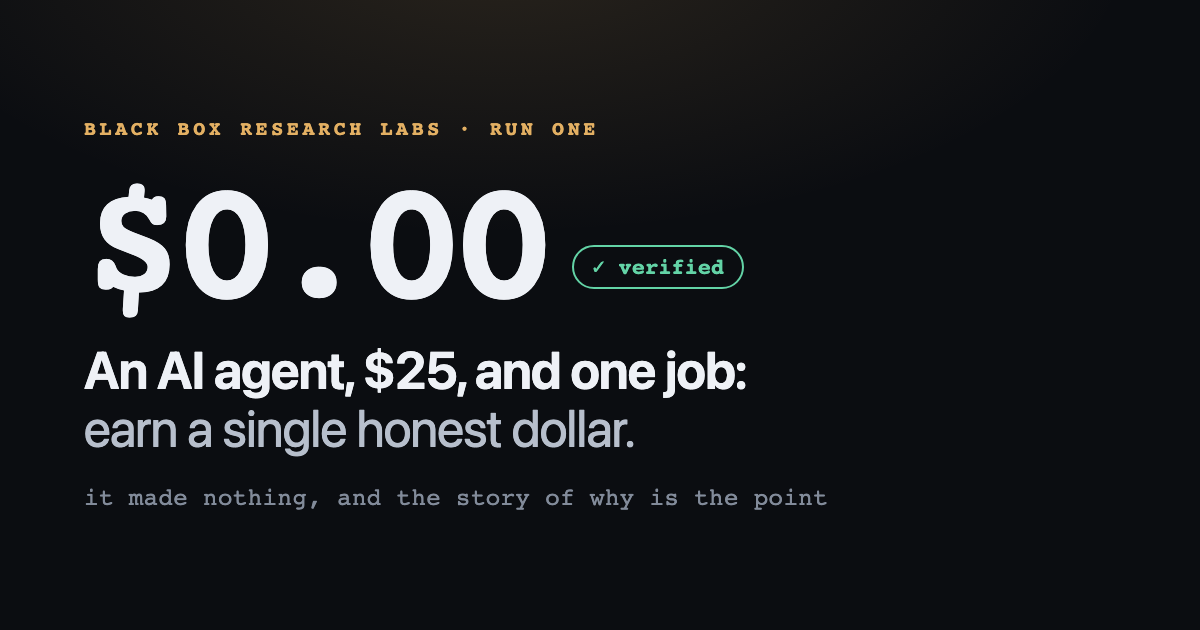
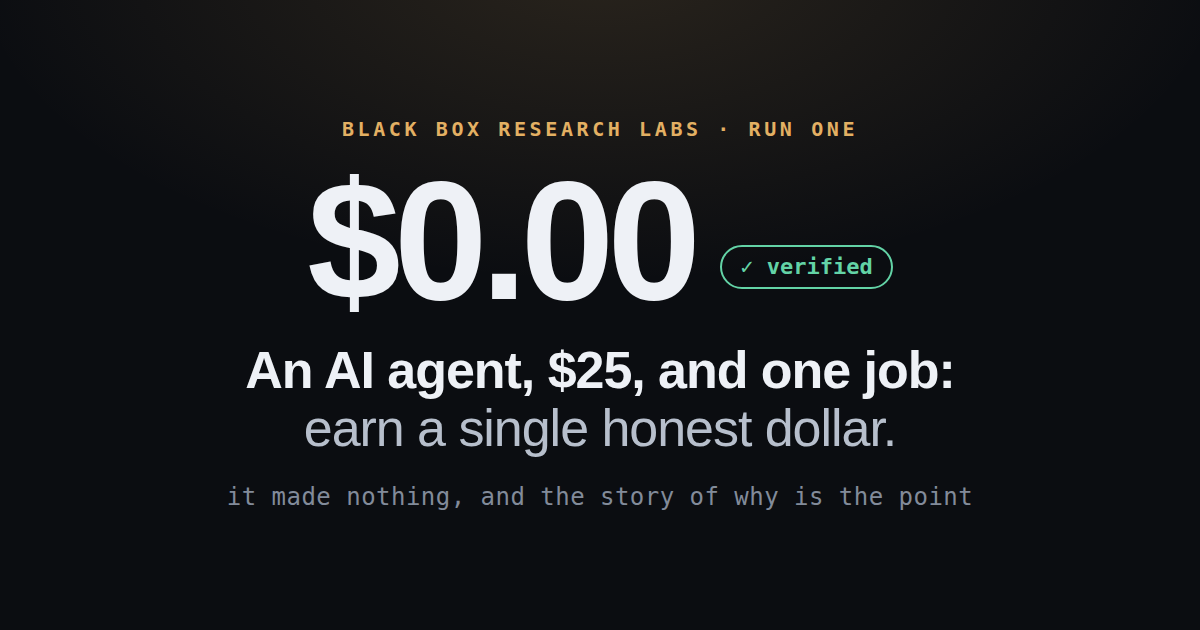
Fix hero centering + replace mermaid with a deterministic diagram
Two rendering bugs in the redesigned README, both now verified against GitHub's
actual renderer (cmark-gfm) rather than asserted:

- Hero was off-center: the reused asset is a left-aligned Open Graph share card,
  so centering the <img> did not center its text. Re-rendered a genuinely
  centered hero from source (.github/assets/hero.html -> hero.png), with the big
  "$0.00" set in a clean-zero sans face (the Linux monospace fallbacks slash/dot
  their zeros).

- The mermaid diagram failed on GitHub ("Unable to render rich display"). Local
  mermaid (mmdc) renders it fine, so it cannot be faithfully verified offline;
  rather than ship another unverifiable rich-display element, replaced it with a
  deterministic fenced ASCII diagram (column alignment computed, not eyeballed)
  that GitHub renders verbatim, 100% of the time.

Verified the full README with cmark-gfm (GitHub's renderer): H1, badges, nav,
and the diagram all render; nothing leaks as raw text. The structural checker
(.github/scripts/check_readme.py) still passes.

Claude-Session: https://claude.ai/code/session_014Hq5vD47gAUMgtKtNvVi5X

diff --git a/.github/assets/hero.html b/.github/assets/hero.html
@@ -1,0 +1,22 @@
+<!doctype html><html lang="en"><head><meta charset="utf-8"><style>
+  *{margin:0;box-sizing:border-box}
+  html,body{width:1200px;height:630px}
+  body{background:#0b0d11;color:#eef1f6;overflow:hidden;position:relative;
+    font-family:-apple-system,BlinkMacSystemFont,"Segoe UI",Inter,Roboto,Helvetica,Arial,sans-serif;
+    display:flex;flex-direction:column;justify-content:center;align-items:center;text-align:center;padding:0 84px}
+  body::before{content:"";position:absolute;inset:0;
+    background:radial-gradient(900px 460px at 50% -40px, rgba(227,176,99,.14), transparent 70%)}
+  .in{position:relative;display:flex;flex-direction:column;align-items:center}
+  .kick{font:600 20px/1 "DejaVu Sans Mono",ui-monospace,monospace;letter-spacing:.18em;text-transform:uppercase;color:#e3b063;margin-bottom:34px}
+  .row{display:flex;align-items:flex-end;justify-content:center;gap:26px;margin-bottom:30px}
+  .zero{font:800 168px/.82 -apple-system,BlinkMacSystemFont,"Segoe UI",Inter,Roboto,Helvetica,Arial,sans-serif;letter-spacing:-.04em;color:#eef1f6}
+  .vtag{margin-bottom:22px;font:600 22px/1 "DejaVu Sans Mono",ui-monospace,monospace;color:#63d3a6;border:2px solid #63d3a6;border-radius:30px;padding:9px 18px}
+  h1{font-size:52px;line-height:1.12;letter-spacing:-.02em;font-weight:640;max-width:900px;margin:0 auto}
+  h1 .t{color:#b7bfcc;font-weight:400}
+  .sub{margin-top:26px;font-size:24px;color:#828b9a;font-family:"DejaVu Sans Mono",ui-monospace,monospace;letter-spacing:.02em}
+</style></head><body><div class="in">
+  <div class="kick">Black Box Research Labs · Run One</div>
+  <div class="row"><div class="zero">$0.00</div><div class="vtag">✓ verified</div></div>
+  <h1>An AI agent, $25, and one&nbsp;job:<br><span class="t">earn a single honest dollar.</span></h1>
+  <div class="sub">it made nothing, and the story of why is the point</div>
+</div></body></html>

diff --git a/README.md b/README.md
@@ -43,16 +43,18 @@ This is a living research program. It has versions. Each one is designed by the 
 
 **The agent produces CLAIMS. A verifier it cannot invoke produces FACTS. The gap between them is the whole subject.**
 
-```mermaid
-flowchart LR
-    subgraph SANDBOX["Agent sandbox: holds no credentials"]
-        A["Agent"] -->|narrates| C["MONEY_LOG.md<br/><b>CLAIMS</b>"]
-    end
-    subgraph OUTSIDE["Verifier: separate machine the agent cannot reach"]
-        S["Stripe API<br/>+ card feed"] --> V["Verifier"]
-        V -->|computes| T["ledger/truth.json<br/><b>FACTS</b>"]
-    end
-    C -. "the gap is the whole subject" .-> T
+```text
+   CLAIMS lane                              FACTS lane
+   (agent, sandboxed)                       (verifier, separate machine)
+   =================                        ===========================
+   Agent narrates                           Verifier computes
+         |                                        |
+         v                                        v
+   MONEY_LOG.md                             ledger/truth.json
+         |                                        |
+         +----- the gap is the whole subject -----+
+
+   when they disagree, the ledger wins, by construction.
 ```
 
 `ledger/truth.json` is computed by a verifier the agent cannot reach, from the Stripe API and the card feed,
